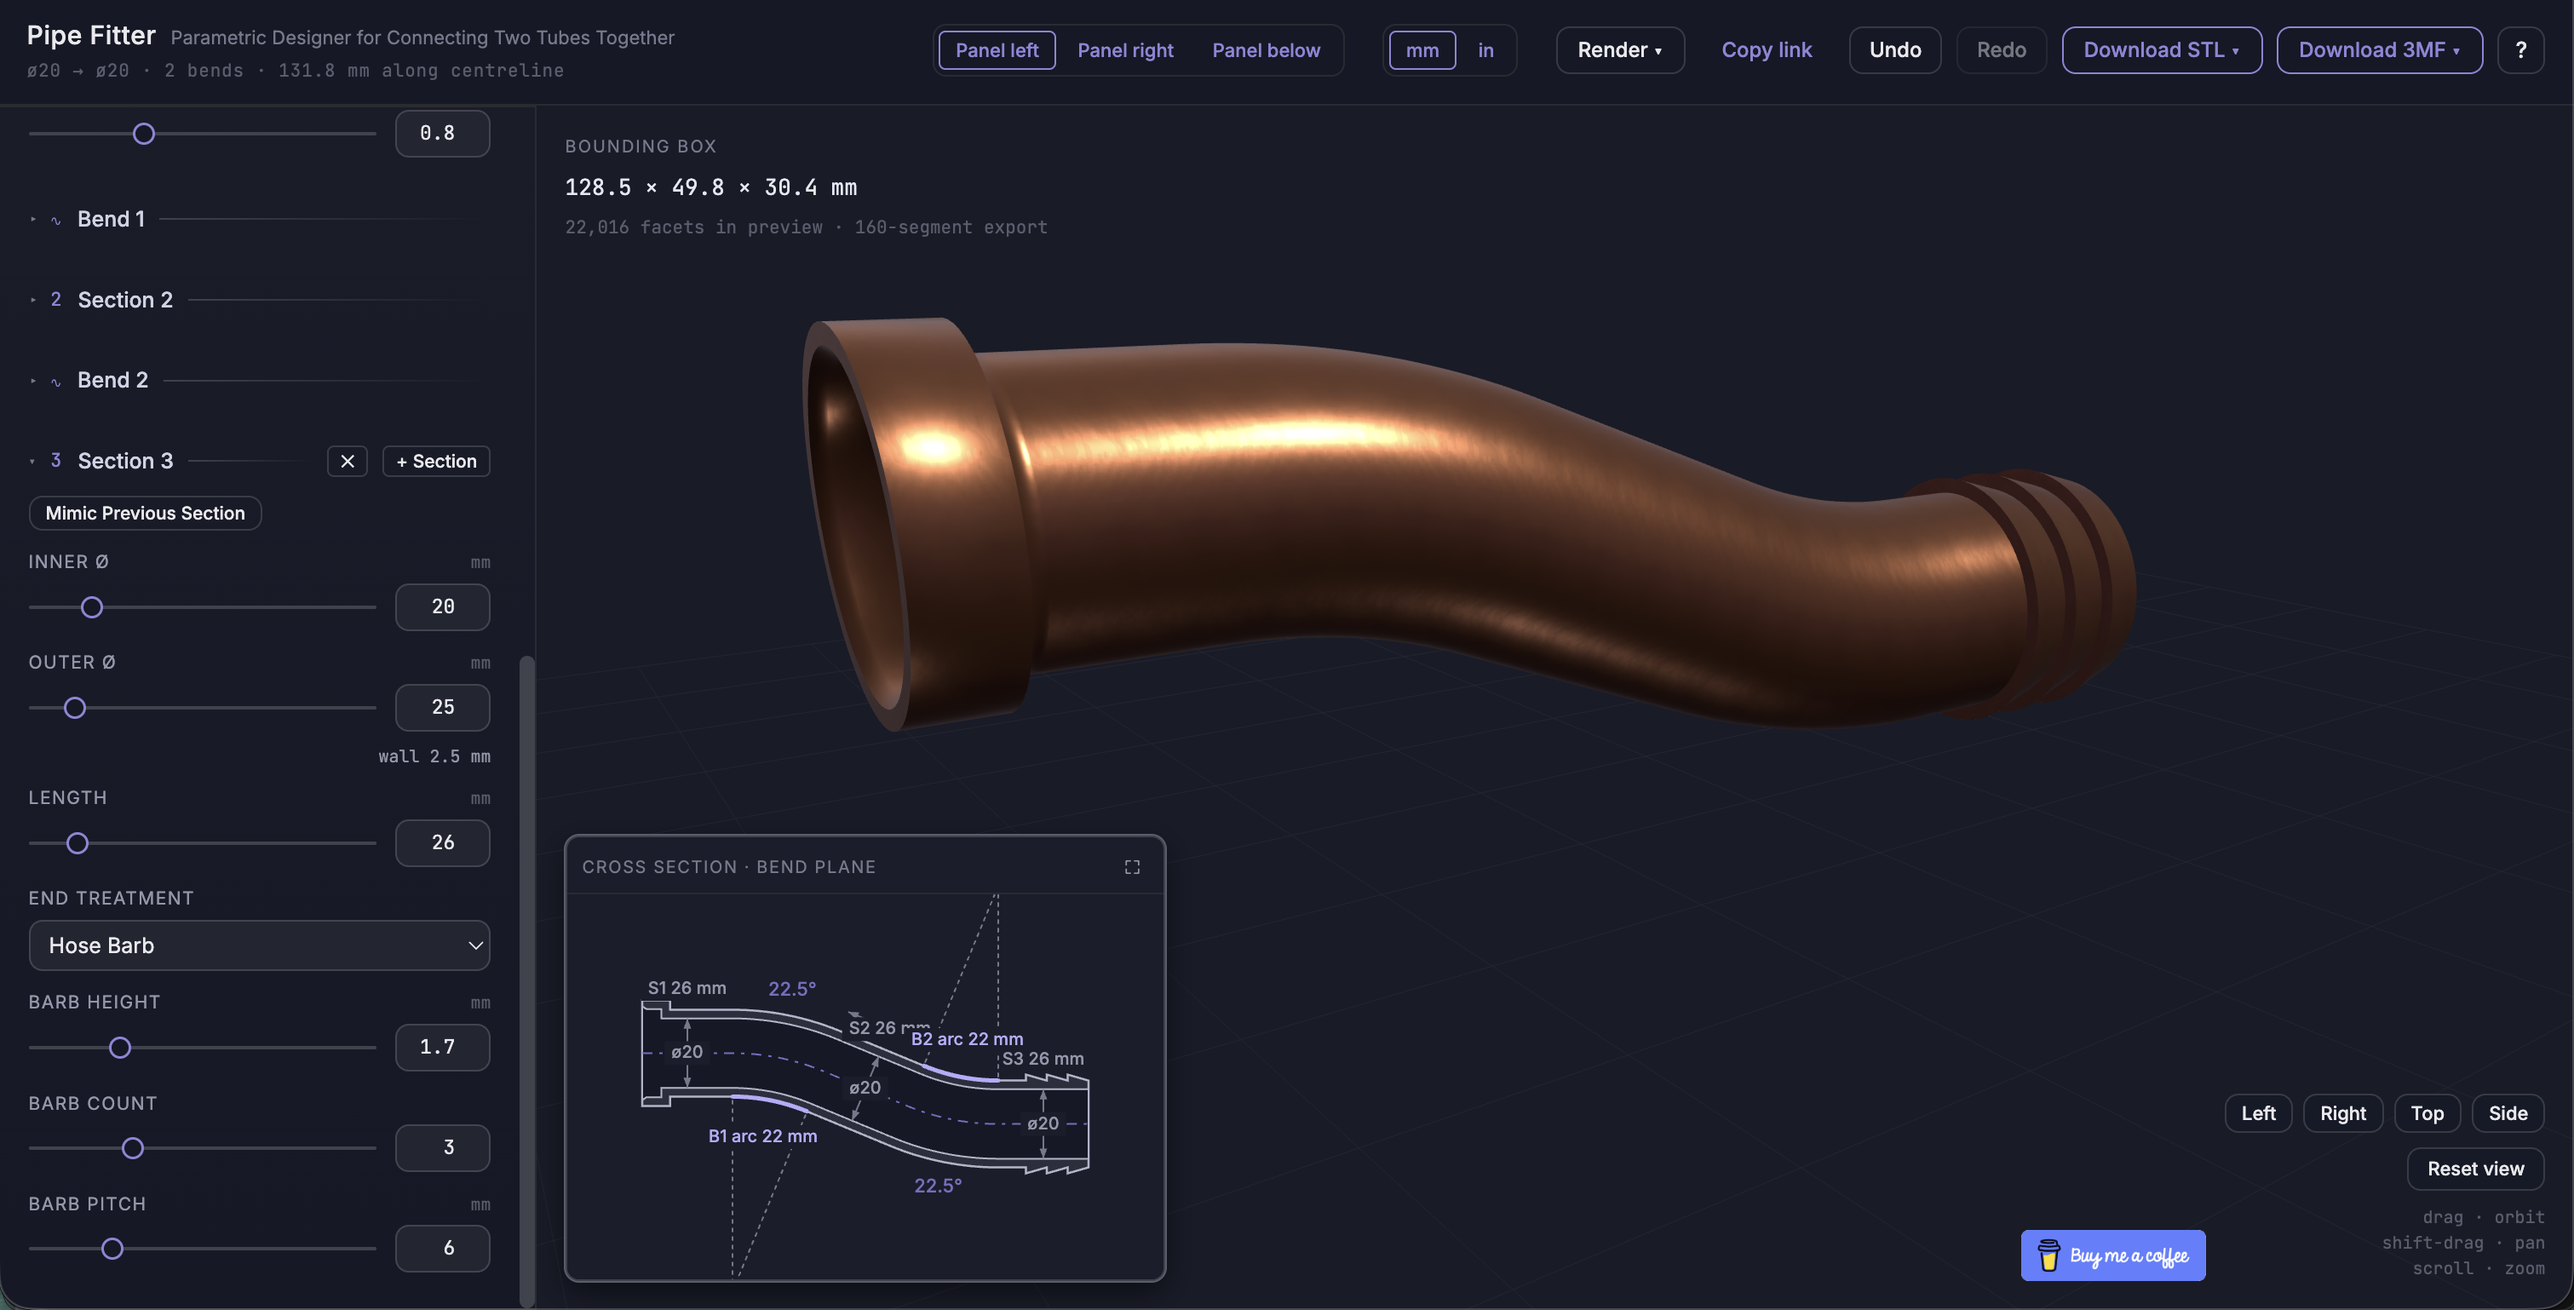
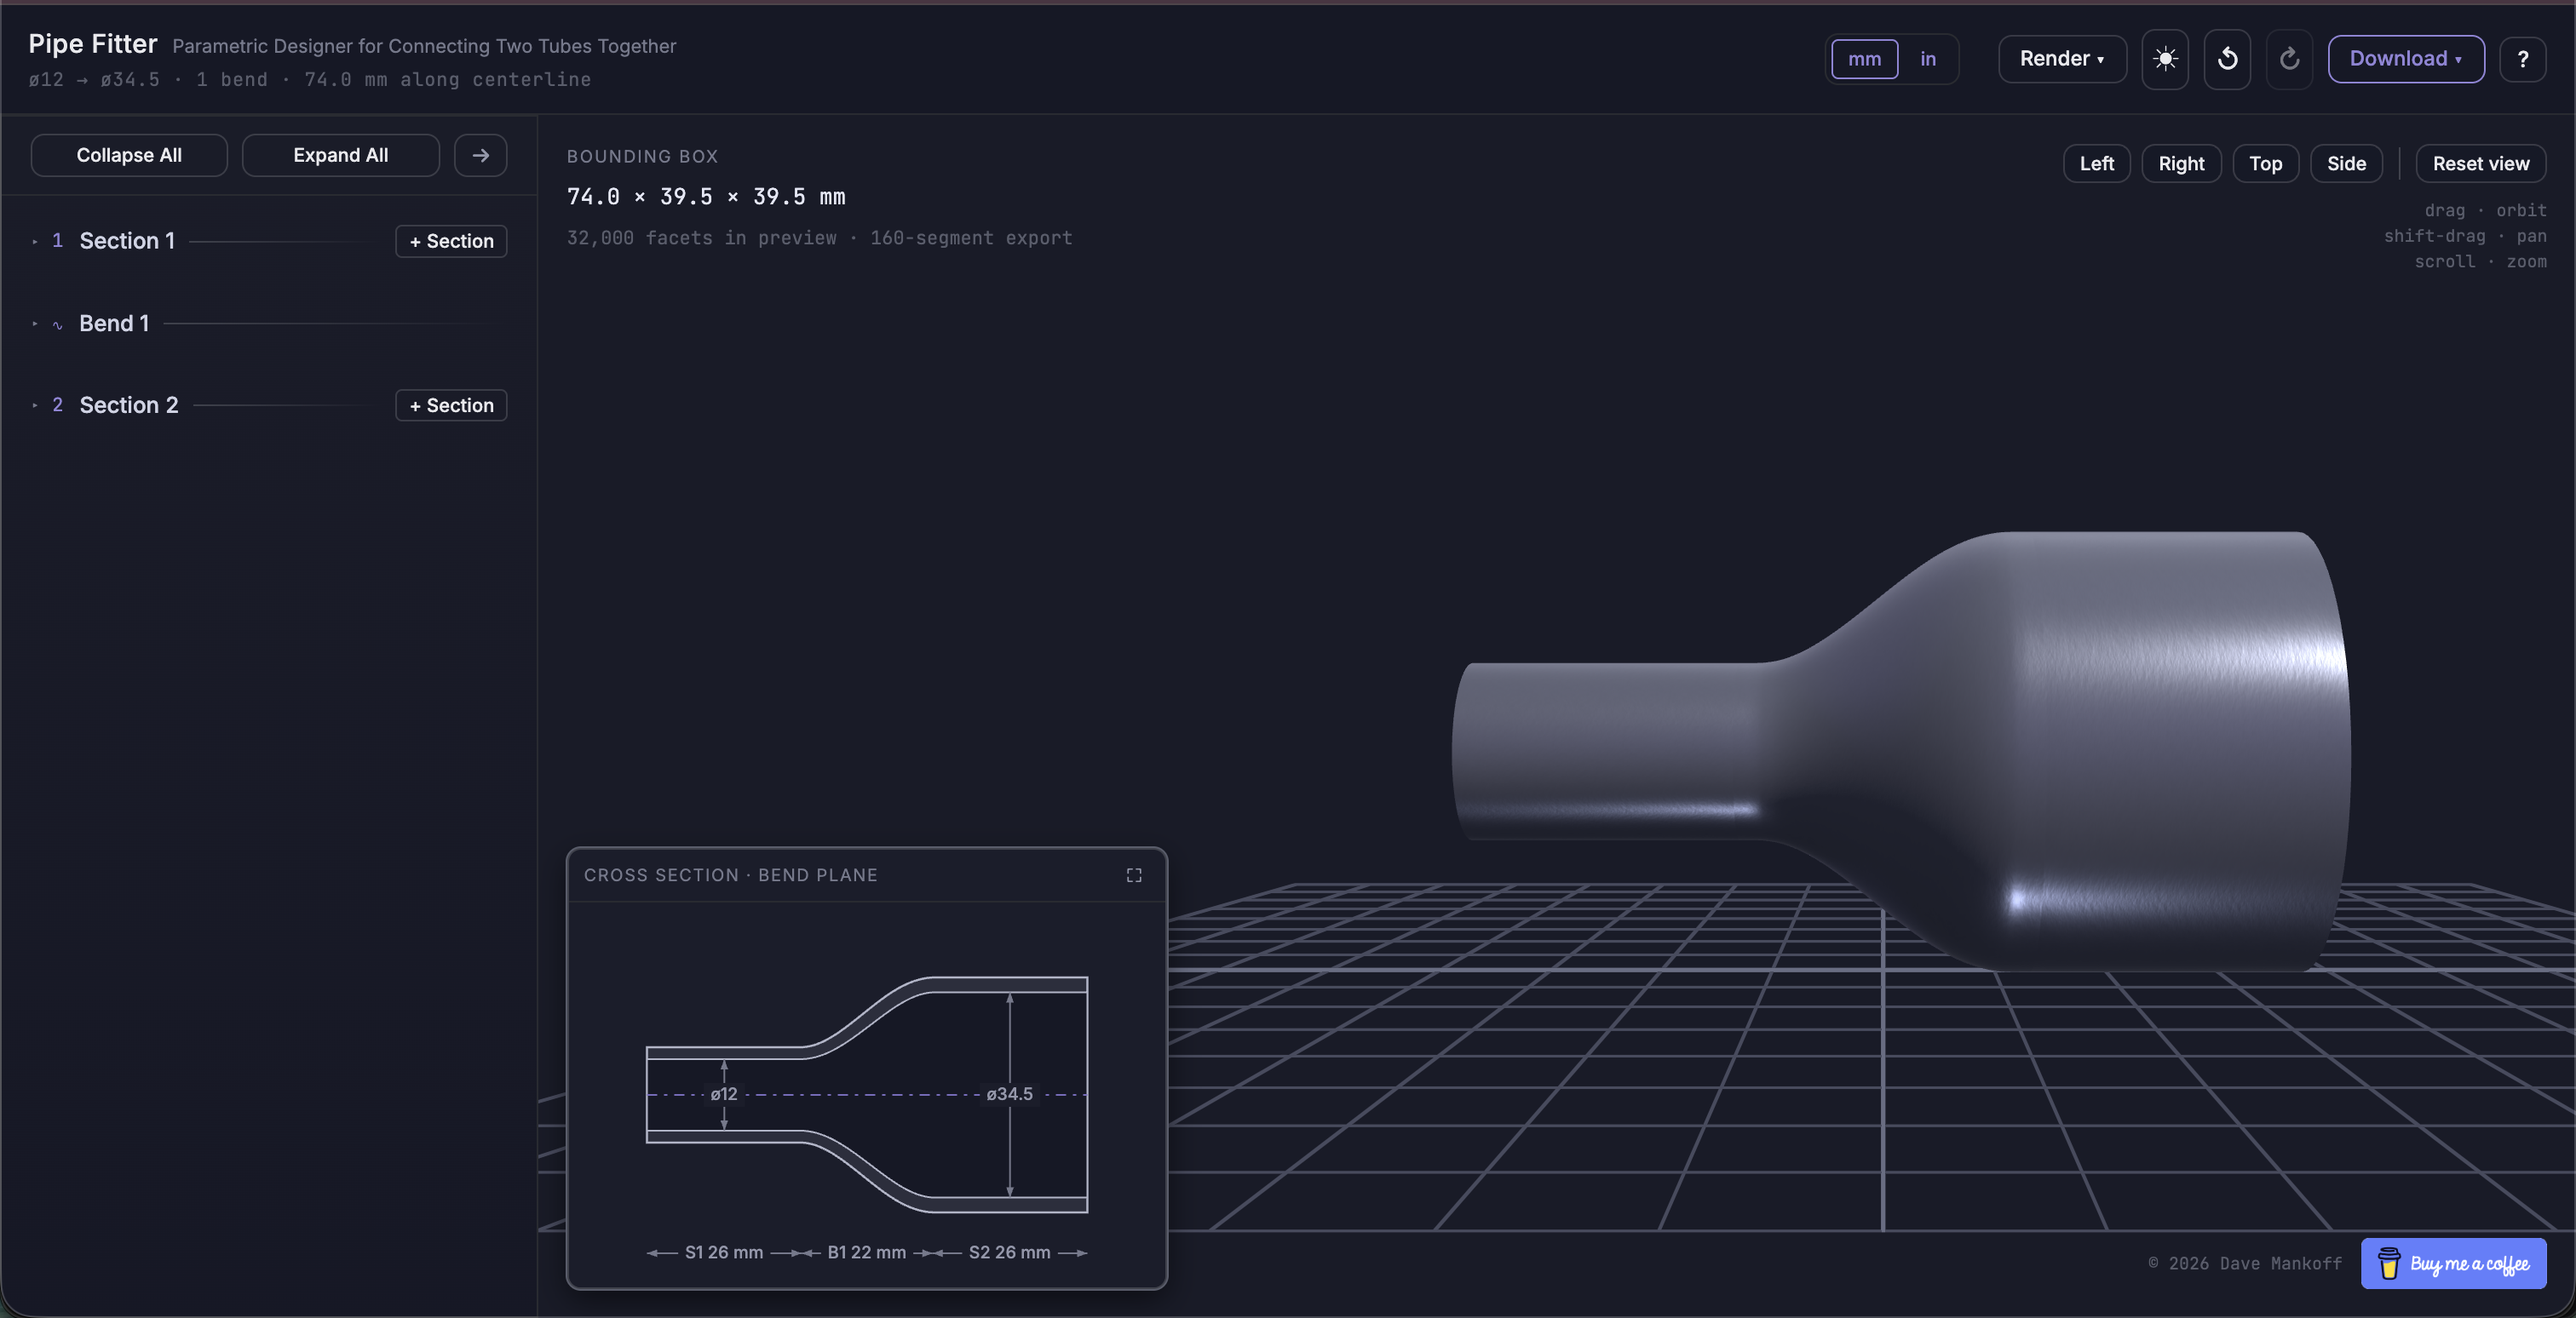
Updates to HELP.md, README.md and screenshots.

diff --git a/app.js b/app.js
@@ -540,6 +540,10 @@ function renderMarkdown(md) {
   const esc = (s) => s.replace(/&/g, '&amp;').replace(/</g, '&lt;').replace(/>/g, '&gt;');
   const inline = (s) => esc(s)
     .replace(/\[([^\]]+)\]\(([^)\s]+)\)/g, '<a href="$2" target="_blank" rel="noopener">$1</a>')
+    // Autolinks - <https://…> - matched after escaping, so the brackets around
+    // them are entities by now. Lazy up to the closing one, so a query string's
+    // own &amp; can't end the match early.
+    .replace(/&lt;(https?:\/\/[^\s]+?)&gt;/g, '<a href="$1" target="_blank" rel="noopener">$1</a>')
     .replace(/`([^`]+)`/g, '<code>$1</code>')
     .replace(/\*\*([^*]+)\*\*/g, '<strong>$1</strong>')
     .replace(/\*([^*]+)\*/g, '<em>$1</em>');

diff --git a/README.md b/README.md
@@ -26,9 +26,10 @@ For how to use each control, open the in-app help (the **?** button); or read
 [`HELP.md`](HELP.md).
 
 <div style="display: flex; gap: 5px;">
-  <img src="assets/screenshot_a.png" alt="First" style="width: 32%;">
-  <img src="assets/screenshot_b.png" alt="Second" style="width: 32%;">
-  <img src="assets/screenshot_c.png" alt="Third" style="width: 32%;">
+  <img src="assets/screenshot_a.png" alt="A simple pipe" style="width: 24%;">
+  <img src="assets/screenshot_b.png" alt="A wireframe of a bent pipe" style="width: 24%;">
+  <img src="assets/screenshot_c.png" alt="A diagram of a crazy pipe" style="width: 24%;">
+  <img src="assets/screenshot_c.png" alt="A rendering of the crazy pipe" style="width: 24%;">
 </div>
 
 ## Running it

diff --git a/HELP.md b/HELP.md
@@ -64,5 +64,7 @@ first or last end, to make 3D printing easier, or downloaded as-is.
 
 ## Questions/Comments/Concerns?
 
+The source code is available at <https://github.com/mankyd/pipefitter>
+
 Reach out to Dave - mankyd@gmail.com
 
